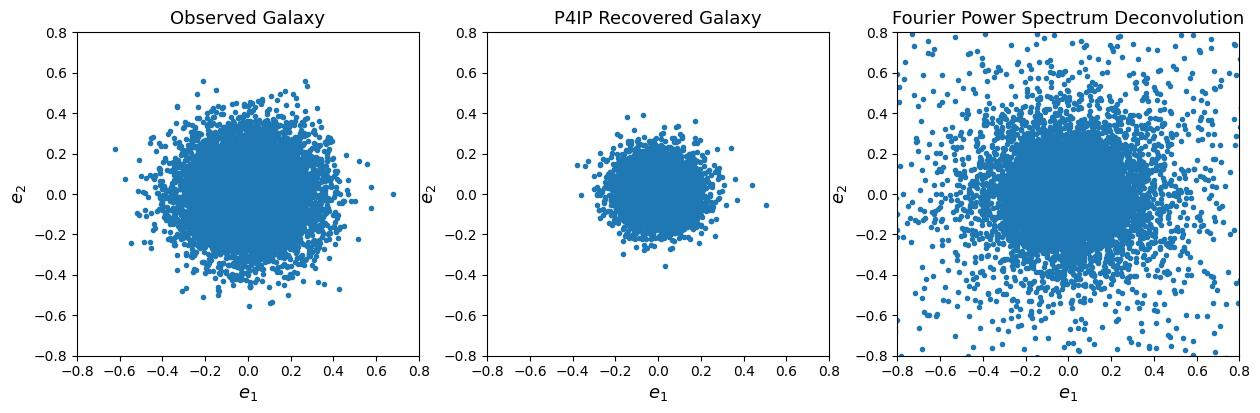
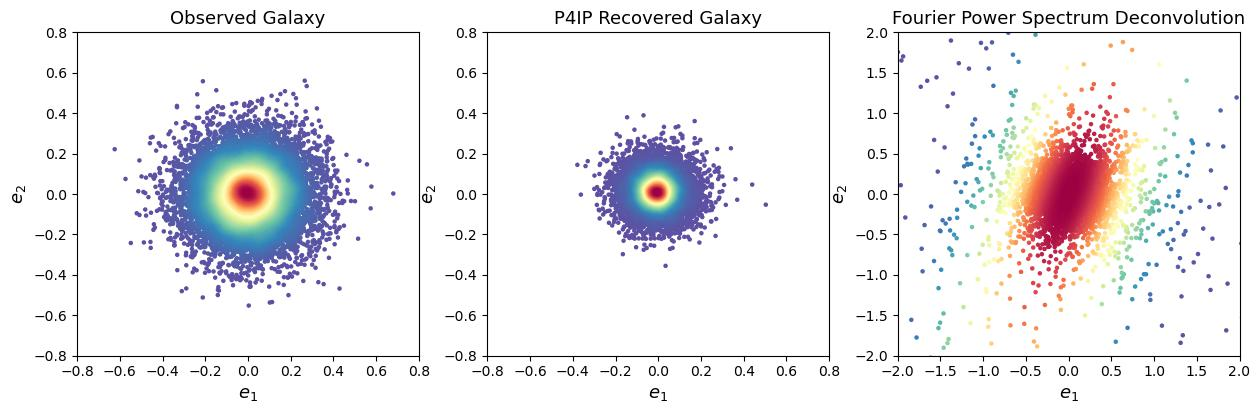
plot results

diff --git a/test.py b/test.py
@@ -10,6 +10,8 @@ from dataset import Galaxy_Dataset
 from models.network_p4ip import P4IP_Net
 from utils_poisson_deblurring.utils_torch import MultiScaleLoss
 from utils import PSNR, estimate_shear
+from scipy.stats import gaussian_kde
+from matplotlib.colors import LogNorm
 
 class p4ip_deconvolver:
     """Wrapper class for P4IP deconvolution."""
@@ -121,20 +123,6 @@ def test_p4ip(n_iters=8, result_path='./results/p4ip/', model_path='./saved_mode
         json.dump(results, f)
     logging.info(f"Test results saved to {results_file}.")
 
-    # # Plot results
-    # with open(results_file, 'r') as f:
-    #     results = json.load(f)
-    # obs_psnr = results['obs_psnr']
-    # rec_psnr = results['rec_psnr']
-    # plt.figure(figsize=(10,10))
-    # plt.plot([10,35],[10,35],'r') # plt y=x line
-    # plt.plot(obs_psnr, rec_psnr, '.')
-    # plt.title('PSNR of P4IP Test Results', fontsize=18)
-    # plt.xlabel('PSNR of Observed Galaxies', fontsize=15)
-    # plt.ylabel('PSNR of Recovered Galaxies', fontsize=15)
-    # plt.savefig(os.path.join(result_path, 'p4ip_psnr.jpg'), bbox_inches='tight')
-    # plt.close()
-
     return results
 
 def test_shear(model_file='./saved_models/P4IP_20.pth', result_path='./results/p4ip/', results_file='p4ip_results.json', I=23.5):
@@ -173,8 +161,16 @@ def test_shear(model_file='./saved_models/P4IP_20.pth', result_path='./results/p
             rec_shear.append(estimate_shear(rec))
             try:
                 fpfs_shear.append(estimate_shear(obs, psf, use_psf=True))
+                if abs(fpfs_shear[-1][0]) > 10 or abs(fpfs_shear[-1][1]) > 10:
+                    gt_shear.pop()
+                    obs_shear.pop()
+                    rec_shear.pop()
+                    fpfs_shear.pop()
             except:
-                fpfs_shear.append(estimate_shear(obs))
+                # fpfs_shear.append(estimate_shear(obs))
+                gt_shear.pop()
+                obs_shear.pop()
+                rec_shear.pop()
             logging.info('Estimating shear: [{}/{}]  gt:({:.3f},{:.3f})  obs:({:.3f},{:.3f})  rec:({:.3f},{:.3f})  fpfs:({:.3f},{:.3f})'.format(
                 idx+1, len(test_loader),
                 gt_shear[-1][0], gt_shear[-1][1],
@@ -196,31 +192,6 @@ def test_shear(model_file='./saved_models/P4IP_20.pth', result_path='./results/p
         fpfs_shear_err[0], fpfs_shear_err[1]
     ))
     
-    # Plot the error
-    plt.figure(figsize=(15,4.2))
-    plt.subplot(1,3,1)
-    plt.plot((obs_shear - gt_shear)[:,0], (obs_shear - gt_shear)[:,1],'.')
-    plt.xlabel('$e_1$', fontsize=13)
-    plt.ylabel('$e_2$', fontsize=13)
-    plt.xlim([-0.8,0.8])
-    plt.ylim([-0.8,0.8])
-    plt.title('Observed Galaxy', fontsize=13)
-    plt.subplot(1,3,2)
-    plt.plot((rec_shear - gt_shear)[:,0], (rec_shear - gt_shear)[:,1],'.')
-    plt.xlabel('$e_1$', fontsize=13)
-    plt.ylabel('$e_2$', fontsize=13)
-    plt.xlim([-0.8,0.8])
-    plt.ylim([-0.8,0.8])
-    plt.title('P4IP Recovered Galaxy', fontsize=13)
-    plt.subplot(1,3,3)
-    plt.plot((fpfs_shear - gt_shear)[:,0], (fpfs_shear - gt_shear)[:,1],'.')
-    plt.xlabel('$e_1$', fontsize=13)
-    plt.ylabel('$e_2$', fontsize=13)
-    plt.xlim([-0.8,0.8])
-    plt.ylim([-0.8,0.8])
-    plt.title('Fourier Power Spectrum Deconvolution', fontsize=13)
-    plt.savefig(os.path.join(result_path, 'p4ip_shear_err.jpg'), bbox_inches='tight')
-
     # Save shear estimation
     results['gt_shear'] = gt_shear.tolist()
     results['obs_shear'] = obs_shear.tolist()
@@ -261,30 +232,48 @@ def plot_results(result_path='./results/p4ip_noisy_psf/', results_file='p4ip_res
     obs_shear = np.array(results['obs_shear'])
     rec_shear = np.array(results['rec_shear'])
     fpfs_shear = np.array(results['fpfs_shear'])
-    obs_shear_err = np.array(results['obs_shear_err'])
-    rec_shear_err = np.array(results['rec_shear_err'])
-    fpfs_shear_err = np.array(results['fpfs_shear_err'])
     plt.figure(figsize=(15,4.2))
     plt.subplot(1,3,1)
-    plt.plot((obs_shear - gt_shear)[:,0], (obs_shear - gt_shear)[:,1],'.')
+    x = (obs_shear - gt_shear)[:,0]
+    y = (obs_shear - gt_shear)[:,1]
+    xy = np.vstack([x,y])
+    z = gaussian_kde(xy)(xy)
+    idx = z.argsort()
+    x, y, z = x[idx], y[idx], z[idx]
+    plt.scatter(x, y, c=z, s=5, cmap='Spectral_r')
     plt.xlabel('$e_1$', fontsize=13)
     plt.ylabel('$e_2$', fontsize=13)
     plt.xlim([-0.8,0.8])
     plt.ylim([-0.8,0.8])
     plt.title('Observed Galaxy', fontsize=13)
+
     plt.subplot(1,3,2)
-    plt.plot((rec_shear - gt_shear)[:,0], (rec_shear - gt_shear)[:,1],'.')
+    x = (rec_shear - gt_shear)[:,0]
+    y = (rec_shear - gt_shear)[:,1]
+    xy = np.vstack([x,y])
+    z = gaussian_kde(xy)(xy)
+    idx = z.argsort()
+    x, y, z = x[idx], y[idx], z[idx]
+    plt.scatter(x, y, c=z, s=5, cmap='Spectral_r')
+    # plt.plot((rec_shear - gt_shear)[:,0], (rec_shear - gt_shear)[:,1],'.')
     plt.xlabel('$e_1$', fontsize=13)
     plt.ylabel('$e_2$', fontsize=13)
     plt.xlim([-0.8,0.8])
     plt.ylim([-0.8,0.8])
     plt.title('P4IP Recovered Galaxy', fontsize=13)
+
     plt.subplot(1,3,3)
-    plt.plot((fpfs_shear - gt_shear)[:,0], (fpfs_shear - gt_shear)[:,1],'.')
+    x = (fpfs_shear - gt_shear)[:,0]
+    y = (fpfs_shear - gt_shear)[:,1]
+    xy = np.vstack([x,y])
+    z = gaussian_kde(xy)(xy)
+    idx = z.argsort()
+    x, y, z = x[idx], y[idx], z[idx]
+    plt.scatter(x, y, c=z, s=5, cmap='Spectral_r')
     plt.xlabel('$e_1$', fontsize=13)
     plt.ylabel('$e_2$', fontsize=13)
-    plt.xlim([-0.8,0.8])
-    plt.ylim([-0.8,0.8])
+    plt.xlim([-2,2])
+    plt.ylim([-2,2])
     plt.title('Fourier Power Spectrum Deconvolution', fontsize=13)
     plt.savefig(os.path.join(result_path, 'p4ip_shear_err.jpg'), bbox_inches='tight')
 
@@ -298,5 +287,5 @@ if __name__ =="__main__":
         os.mkdir('./results/')
         
     # test_p4ip(n_iters=8, result_path='./results/p4ip_noisy_psf/', model_path='./saved_models/P4IP_30epochs.pth')
-    # test_shear(result_path='./results/p4ip_noisy_psf/')
+    test_shear(result_path='./results/p4ip_noisy_psf/')
     plot_results(result_path='./results/p4ip_noisy_psf/', results_file='p4ip_results.json')

diff --git a/utils.py b/utils.py
@@ -28,7 +28,6 @@ def PSNR(img1, img2, normalize=True):
 
 def estimate_shear(obs, psf=None, use_psf=False):
     """Estimate shear from input 2D image."""
-    rcut = 24
     if not use_psf: # Use delta for PSF if not given, equivalent to no deconvolution
         psf = np.zeros(obs.shape)
         psf[np.int(obs.shape[0]/2)+1, np.int(obs.shape[1]/2)+1] = 1
@@ -51,7 +50,7 @@ def estimate_shear(obs, psf=None, use_psf=False):
     g_1 = ells['fpfs_e1'][0] / resp
     g_2 = ells['fpfs_e2'][0] / resp
 
-    return (g_1, g_2)
+    return (g_1, g_2) 
 
 
 if __name__ == "__main__":
